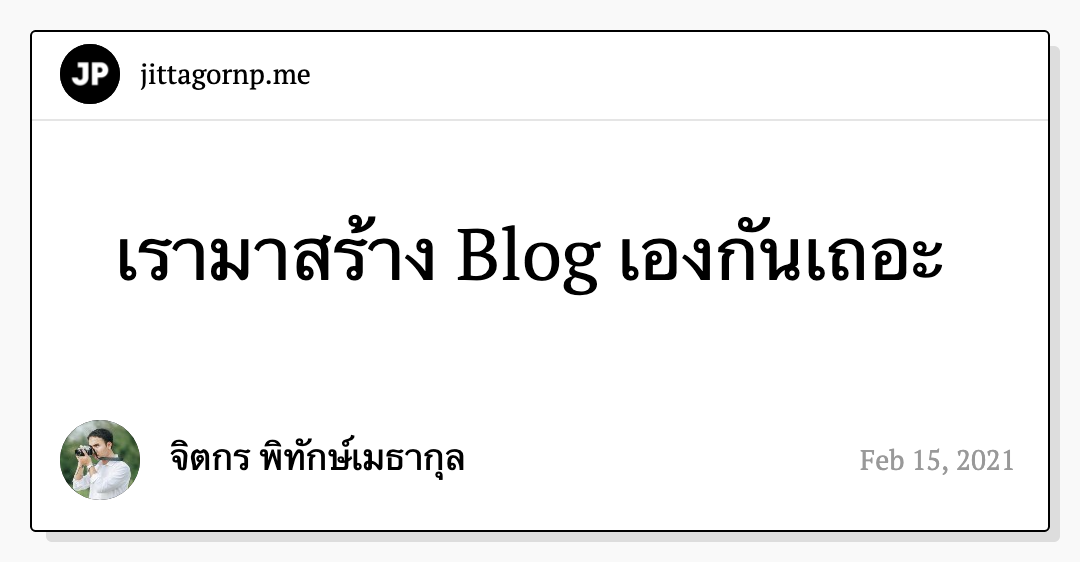
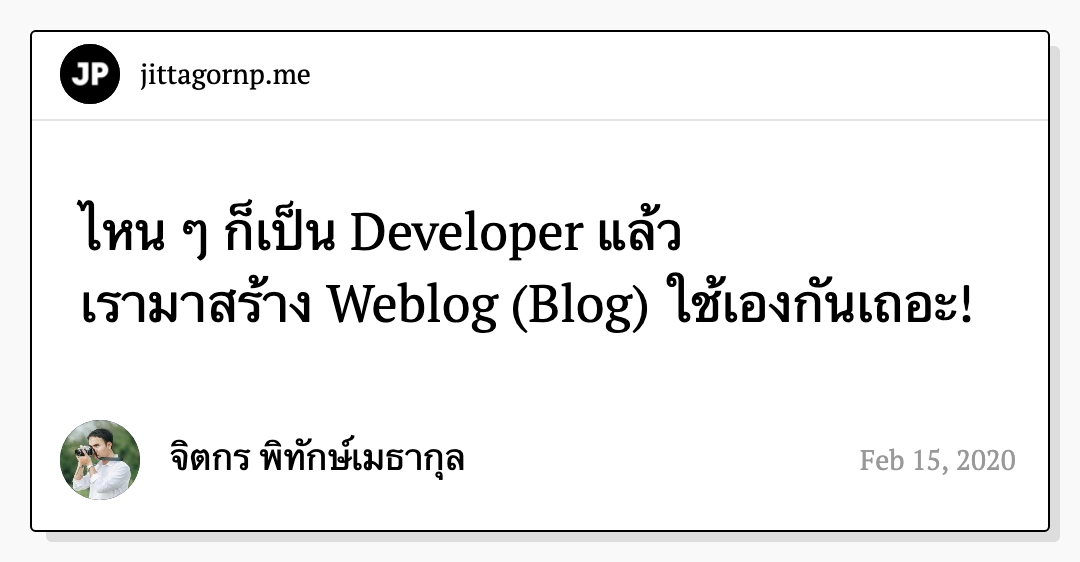
Update /blog/lets-make-your-blog/

Changed region(s): [[0.0611, 0.363, 0.9167, 0.605], [0.9167, 0.7865, 0.9472, 0.847]]

diff --git a/blog/lets-make-your-blog/README.md b/blog/lets-make-your-blog/README.md
@@ -1,3 +1,224 @@
-# เรามาสร้าง Blog เองกันเถอะ
+# ไหน ๆ ก็เป็น Developer แล้ว เรามาสร้าง Weblog (Blog) ใช้เองกันเถอะ!
 
-TODO 
+![](./blog.jpg?v=1)
+
+> บทความนี้เขียนขึ้น เพราะอยากที่จะเชิญชวน Developer ทุกคน มาร่วมกันสร้าง Blog ของตัวเอง โดยใช้ Programming Language และ Technology ตามที่ตัวเองถนัด โดยไม่ใช้ Blog สำเร็จรูปที่มีอยู่แล้ว  
+
+เราว่าการสร้าง Blog ด้วยตัวเอง มันบ่งบอกถึงตัวตนและ `Lifestyle` ของเราน่ะ     
+รสนิยมของเราจะเป็นยังไง ส่วนนึงมันก็แสดงออกมาจากรูปแบบของ Blog และวิธีการเขียนบทความของเรานั่นแหล่ะ 
+
+# ทำไมถึงสร้าง Blog เอง
+
+เหตุผลหลัก ๆ คือ Blog สำเร็จรูปที่มีอยู่ `มันไม่ตอบโจทย์ที่ตัวเองอยากจะได้สักเท่าไหร่`   
+ไม่ใช่ว่าของเค้าไม่ดีน่ะ หลาย ๆ อันดี ถึงดีมาก แต่แค่เราอยากได้อะไรตามใจตัวเองแค่นั้นแหล่ะ 
+
+# ทำไม Blog ที่มีอยู่ถึงไม่ตอบโจทย์
+
+อันนี้เหตุผลส่วนตัวน่ะ
+
+1. เราอยากได้ Blog ที่มันดูสวย เรียบง่าย เป็น Blog ที่เขียนบทความแล้วน่าอ่าน (เราอยากให้คนอ่าน อ่านเพลิน) ซึ่งตรงนี้เราประทับใจ [Medium](https://medium.com) เอามาก ๆ เลยเป็นเหตุผลว่า ทำไม Blog นี้ถึงหน้าตาคล้าย Medium ใช่! เราลอก  Style ของ Medium มาเลย อันนี้ยอมรับ แล้วทำไมถึงไม่ใช้ Medium เลยล่ะ ลองอ่านเหตุผลถัด ๆ ไปดู    
+
+2. `เราอยากได้สารบัญบทความ (Table of Contents)` คือ เคยเจอมั้ย ที่ต้องอ่านบทความยาว ๆ แล้วไม่รู้ว่ามันมีหัวข้ออะไรให้อ่านบ้าง  และเราอ่านถึงไหนแล้ว บางที บางอันเราเคยอ่านแล้ว เราก็อยากที่จะเลื่อนไปอ่านแค่บางหัวข้อแค่นั้น ไม่มีสารบัญนี่ไล่หาตาแตกเลย  
+
+3. เราอยากเขียนบทความเป็น Markdown เก็บไว้ เพื่อที่ว่าจะได้เอาไปใช้กับ Platform อื่น ๆ ได้ด้วย เช่น GitHub, GitLab และ Plaform อื่น ๆ ที่ Support Markdown
+
+4. เราเป็น Blogger มา 10 ปีล่ะ (หัดเขียนบทความตั้งแต่เรียนอยู่ปี 3) เคยลองเขียนบทความมาหลาย Platform ทั้ง Blogspot, Wordpress, GitHub Pages, Git Book, Medium, Dev และอื่น ๆ เราพบว่า เมื่อเวลาผ่านไป หลาย ๆ Platform จะค่อย ๆ `ได้รับความนิยมลดลง` คนก็หันใช้ไปใช้ Plaform อื่น ๆ สิ่งที่เราเคยเขียนไว้ใน Plaform นั้น ถ้าจะต้องย้ายไปตามที่คนให้ความสนใจ มันก็ค่อนข้างลำบากเลยแหล่ะ เพราะจะต้อง Copy Content แล้วไปจัด Format ใหม่ บางบทความคือเราเขียนยาวมาก จัด Format ทีนี่ แทบอ้วกเลย นี่จึงเป็นเหตุผลที่เราต้องการเขียนเป็น Markdown เก็บไว้
+
+5. เราอยากได้ Blog ที่เป็น Style เฉพาะตัวเรา คือ พอมันเป็น Plaform สิ่งที่เราต้องทำใจยอมรับอย่างนึงคือ หน้าตา Blog ของทุกคนจะมาเป็น Pattern เดียวกันทั้งหมดเลย ซึ่งตรงนี้บางคนก็อาจจะไม่ได้คิดอะไรมาก 
+
+6. ลูกเล่นอื่น ๆ ที่เราอยากจะใส่เพิ่ม พอมันเป็น Blog สำเร็จรูป พอถึงจุด ๆ นึงมันเริ่มที่จะ Custom ลำบากล่ะ 
+
+7. อื่น ๆ ถ้าคิดออก เดี๋ยวมาเขียนเพิ่มน่ะ 
+
+# ราคาที่ต้องจ่าย เมื่อต้องสร้าง Blog เอง
+
+1. ต้องมีความรู้ในการเขียนโปรแกรม และการ Setup ระบบในระดับนึงเลย 
+2. ค่า Server หรือ ค่าบริการ Cloud อื่น ๆ อย่าง Blog นี้ เราเสียค่า Server DigitalOcean ตกเดือนละ 5 USD (เป็นเงินไทยประมาณ 150 บาท ณ วันที่ 16 ก.พ. 2564) 
+3. คนอ่าน คน Follow อาจจะไม่เยอะเท่า Plaform ที่คนรู้จักแล้ว 
+4. ถ้าเป็นคนที่ไม่มีศิลปะในหัวเลย การแต่ง Blog (CSS) จะถือเป็นเรื่องที่ยากมาก 
+
+# สร้าง Blog เองแล้วได้อะไร 
+
+- ได้ Blog ตามที่ตัวเองอยากจะได้
+- ได้ความรู้เพิ่มขึ้น 
+- ได้อวดผลงานตัวเอง 
+- มีรายได้ (ถ้าติด Google AdSense)
+- สนุก 
+
+# Blog นี้สร้างยังไง 
+
+เดี๋ยวจะอธิบายให้ฟัง/อ่านกัน เผื่อใครอยากที่จะเอาไอเดียนี้ไปใช้สร้าง Blog ของตัวเอง
+
+# ลักษณะของ Blog 
+
+Blog นี้เป็น `กึ่ง ๆ Static` คือ ไม่ Static 100% 
+
+- ตัวบทความเป็น Static (แปลง Markdown -> HTML)
+- บางส่วนของ Blog เป็น Dynamic เช่น ข้อมูล Page views, ข้อมูล COVID-19 ที่หน้าแรก 
+
+แน่นอน ว่ามันต้องมี Database และ API 
+
+# การแบ่ง Source Code
+
+<img src="./source-code-structure.png" width="500">
+
+ Blog นี้แบ่ง Source Code ออกเป็น 2 ชุด คือ 
+
+ - ตัวบทความ (ที่เขียนเป็น Markdown)
+ - Blog Template (หน้าตาของ Blog)
+
+### ตัวบทความ
+
+เขียนเป็น Markdown เก็บไว้ที่ GitHub 
+
+- [https://github.com/jittagornp/www.jittagornp.me](https://github.com/jittagornp/www.jittagornp.me) 
+  
+ที่ไม่เก็บลง Database และเปิดเป็น Public มีเหตุผล คือ 
+
+> กลัวว่าในอนาคต ถ้าวันใดวันนึงเราไม่อยู่แล้ว (ไม่ว่าจะด้วยเหตุผลอะไรก็ตาม พูดง่าย ๆ คือ ตาย นั่นแหล่ะ) บทความที่เราเคยเขียนไว้จะยังคงอยู่ ไม่สูญหายไปกับตัวเรา (ไม่ต้องกังวลถ้าลืมจ่ายค่า Server)  
+
+### Blog Template 
+
+เขียนด้วย Programming Language และใช้ Technology ตามที่ตัวเองถนัด
+
+# Tech Stack ของ Blog Template 
+
+
+<img src="./front-end-stack.png" width="400">
+
+Blog นี้ไม่ได้ใช้  Vue, React หรือ Angular   
+ไม่ได้เขียนแบบ SPA (Single Page Application)   
+  
+ต้องการให้มันทำงานง่าย ๆ แค่ 
+- เป็น SSR (Server Side Rendering)  
+- และ Redirect เปลี่ยนหน้าไปมา
+
+เลยใช้ Stack ง่าย ๆ แค่นี้ 
+
+### Front-end
+
+- Html 
+- Css
+- JavaScript
+- JQuery
+- Font Awesome
+- Google Font (PT Serif)
+- Facebook Plugins
+- PWA (Progressive Web App)
+
+### Back-end
+- Apache Maven
+- Java
+- Spring-boot Reactive (WebFlux)
+- Postgresql
+- Markdown Text Processor
+- HTML + YUI Compressor
+- Docker 
+
+### อื่น ๆ
+- Visual Studio Code
+- IntelliJ IDEA
+- GitHub
+- DigitalOcean
+- Cloudflare 
+
+# การวางระบบและการ Deploy 
+
+![](./infrastructure.png?v=3)
+
+### ภาพรวม 
+
+จากภาพด้านบน จะเห็นว่าองค์ประกอบหลัก ๆ ของ Blog จะมีอยู่ 3 ส่วน คือ 
+
+**1. Cloudflare** [https://www.cloudflare.com/](https://www.cloudflare.com/)     
+ไว้ทำ `DNS` + `HTTPS` + `CDN` (Caching) สามารถอ่านได้จากบทความ [ทำ Website เราให้เป็น https ด้วย Cloudflare](/blog/https-by-cloudflare/)
+
+**2. DigitalOcean** [https://www.digitalocean.com/](https://www.digitalocean.com/)     
+เป็น VPS (Virtual Private Server) ไว้ Run Server ง่าย ๆ แค่ 1 เครื่อง   
+ตอนนี้ใช้ Spec เครื่องแค่       
+
+- CPU : 1 vCPU
+- Memory : 1 GB
+- SSD : 25 GB
+
+ราคา 5 USD ต่อเดือน เปิดเครื่องไว้ที่ Singapore 
+
+> เนื่องจากคนไม่ได้อ่านบทความเยอะมาก เลยใช้ Spec เครื่องแค่นี้พอ 
+
+**3. GitHub** [https://github.com/](https://github.com/)    
+ไว้ฝาก Source Code โดยแยกเป็น 2  Repositories คือ 
+
+- [บทความ (Public Repository)](https://github.com/jittagornp/www.jittagornp.me) 
+- Blog Template (Private Repository)  
+
+### เครื่อง Server 
+
+![](./server.png?v=1)
+
+- ลง Docker ไว้ 
+- Run PostgresQL ไว้ 1 Container (อย่าลืม Mount Volume ข้อมูลออกมานอก Container น่ะ!)  
+
+### การ Deploy 
+
+- ครั้งแรกเราจะ Deploy แบบ Manaul  
+- ครั้งถัด ๆ ไป เปลี่ยนไปเป็น Automatation
+
+**Manual**  
+ก็คือการ Remote SSH เข้าไปที่เครื่อง Server แล้ว 
+
+```sh
+$ git clone https://github.com/jittagornp/xxx.git 
+```
+
+Repository ที่ต้องการลงมา แล้วก็ Deploy ตามเทคโนโลยีที่เราใช้   
+ซึ่ง Blog นี้เรา Deploy บน Docker 
+  
+การ Deploy   
+- ตัวบทความ : แค่ Clone ลงมา เป็น Directory ธรรมดา ๆ  
+- ส่วนตัว Blog Template : Clone ลงมา แล้ว Build เป็น Docker Image จากนั้นก็ Run App เป็น Container 
+  
+ถ้าใครไม่แม่นเรื่อง SSH, Git และ Docker สามารถเรียนรู้ได้จาก 
+
+- [การติดตั้งและใช้งาน SSH บน Ubuntu Server](/blog/ssh-ubuntu-server/)
+- [พื้นฐาน Git](https://docs.google.com/presentation/d/15OPX4ho6uvhgOubxFxSp1Cl7myOlyQ7OBC9PoClMwBA/edit?series=series)
+- [พื้นฐาน Docker](https://docs.google.com/presentation/d/1NXArkIDFIJMmcvXY63cc5z7jIsbx8SDZqt76RqeuGwU/edit?series=docker)
+
+**Automatation**  
+
+หลังจากที่เรา Manual Deploy เองไปแล้ว 1 รอบ   
+ครั้งถัด ๆ มา เราจะเปลี่ยนระบบให้มันทำงานแบบ Automation เพื่อที่ว่า เราจะได้ไม่ต้อง Remote เข้าไป Manual Deploy ที่เครื่อง Server เองบ่อย ๆ  
+  
+การ Set Automation เราจะใช้ `GitHub Action` (CI/CD) ช่วยในการ Deploy   
+โดยการเขียน `YML` File ไว้ใน Repository แบบนี้ 
+
+```plaintext
+.github/workflows/ci.yml
+``` 
+
+![](./github-action-yml.png?v=2)  
+
+ตัวอย่างไฟล์เต็ม ๆ [ci.yml](https://github.com/jittagornp/www.jittagornp.me/blob/master/.github/workflows/ci.yml)   
+ซึ่งค่าตัวแปร 
+
+```plaintext
+- ${{ secrets.REMOTE_KEY }}
+- ${{ secrets.REMOTE_HOST }}
+- ${{ secrets.REMOTE_USER }}
+- ${{ secrets.REMOTE_PORT }}
+```
+
+เราจะ Set ไว้ที่ **Settings > Secrets**
+
+![](./settings-secrets.png)
+
+จาก YML File เมื่อเราทำการ Push หรือ Pull Request ไปที่ Branch `master` ตัว Action นี้จะทำงาน และทำการ Remote SSH เข้าไปที่เครื่อง Server เรา เพื่อ Deploy หรือทำตามคำสั่ง (Command) ที่เรากำหนดไว้ 
+
+![](./github-action.png?v=1)
+
+ตัวอย่าง 
+
+![]()
+
+# การทำงานของ Blog Template
+
+
